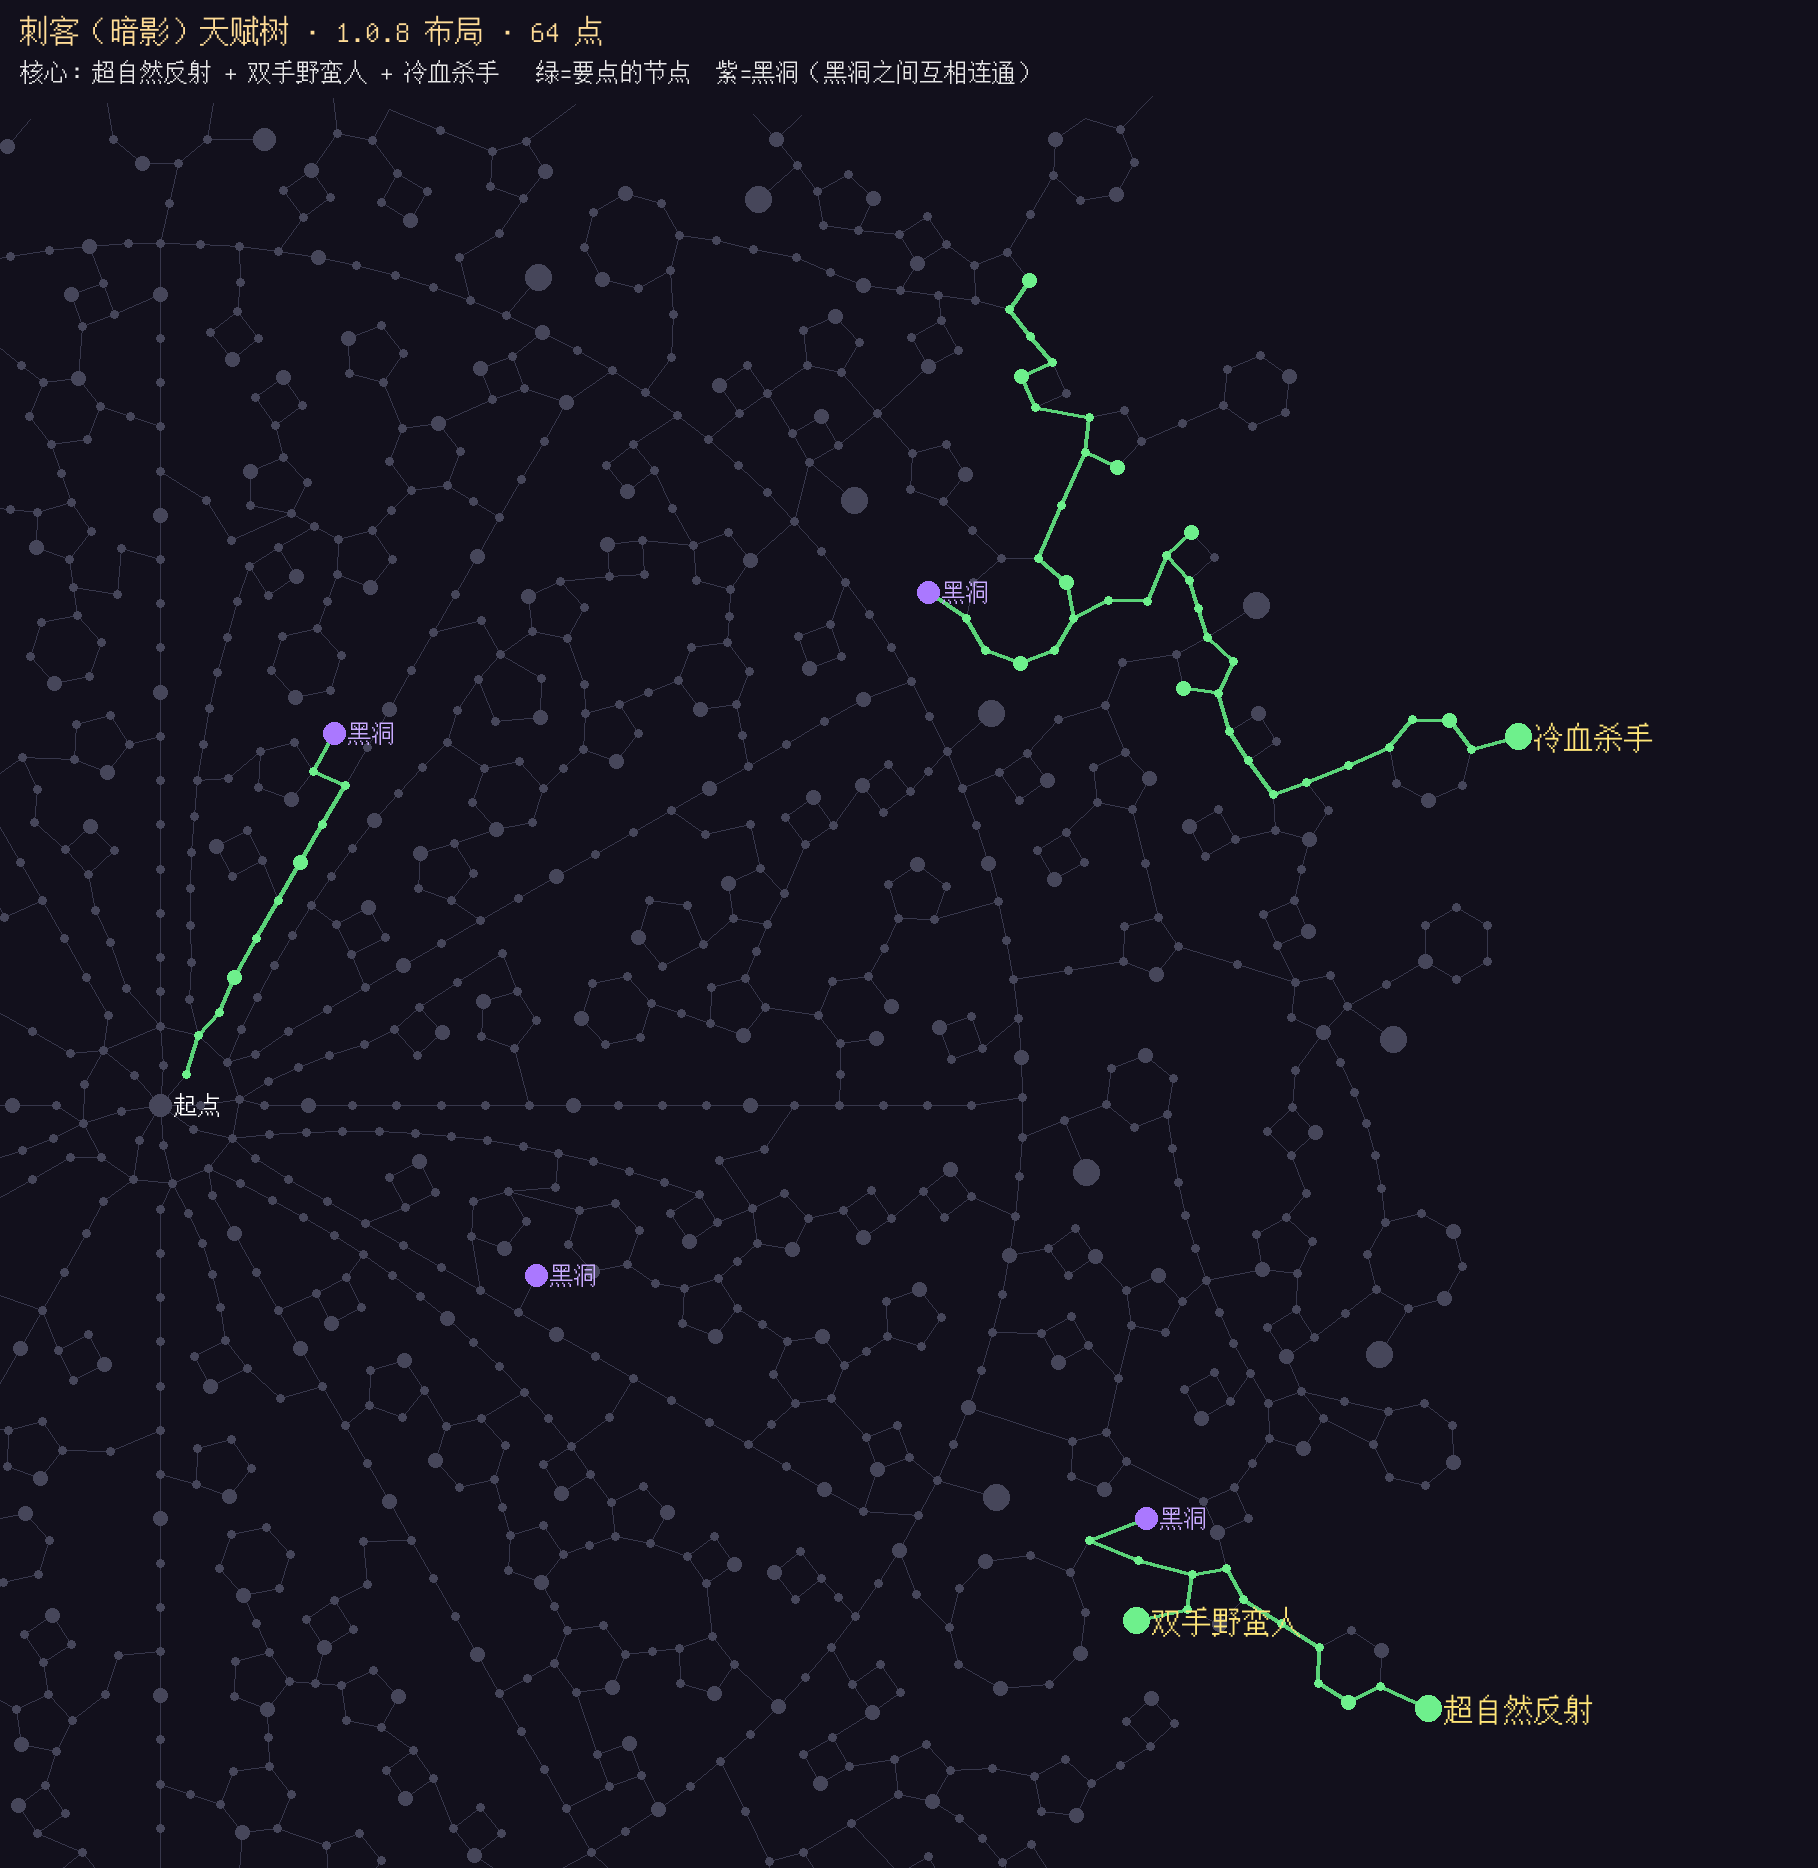
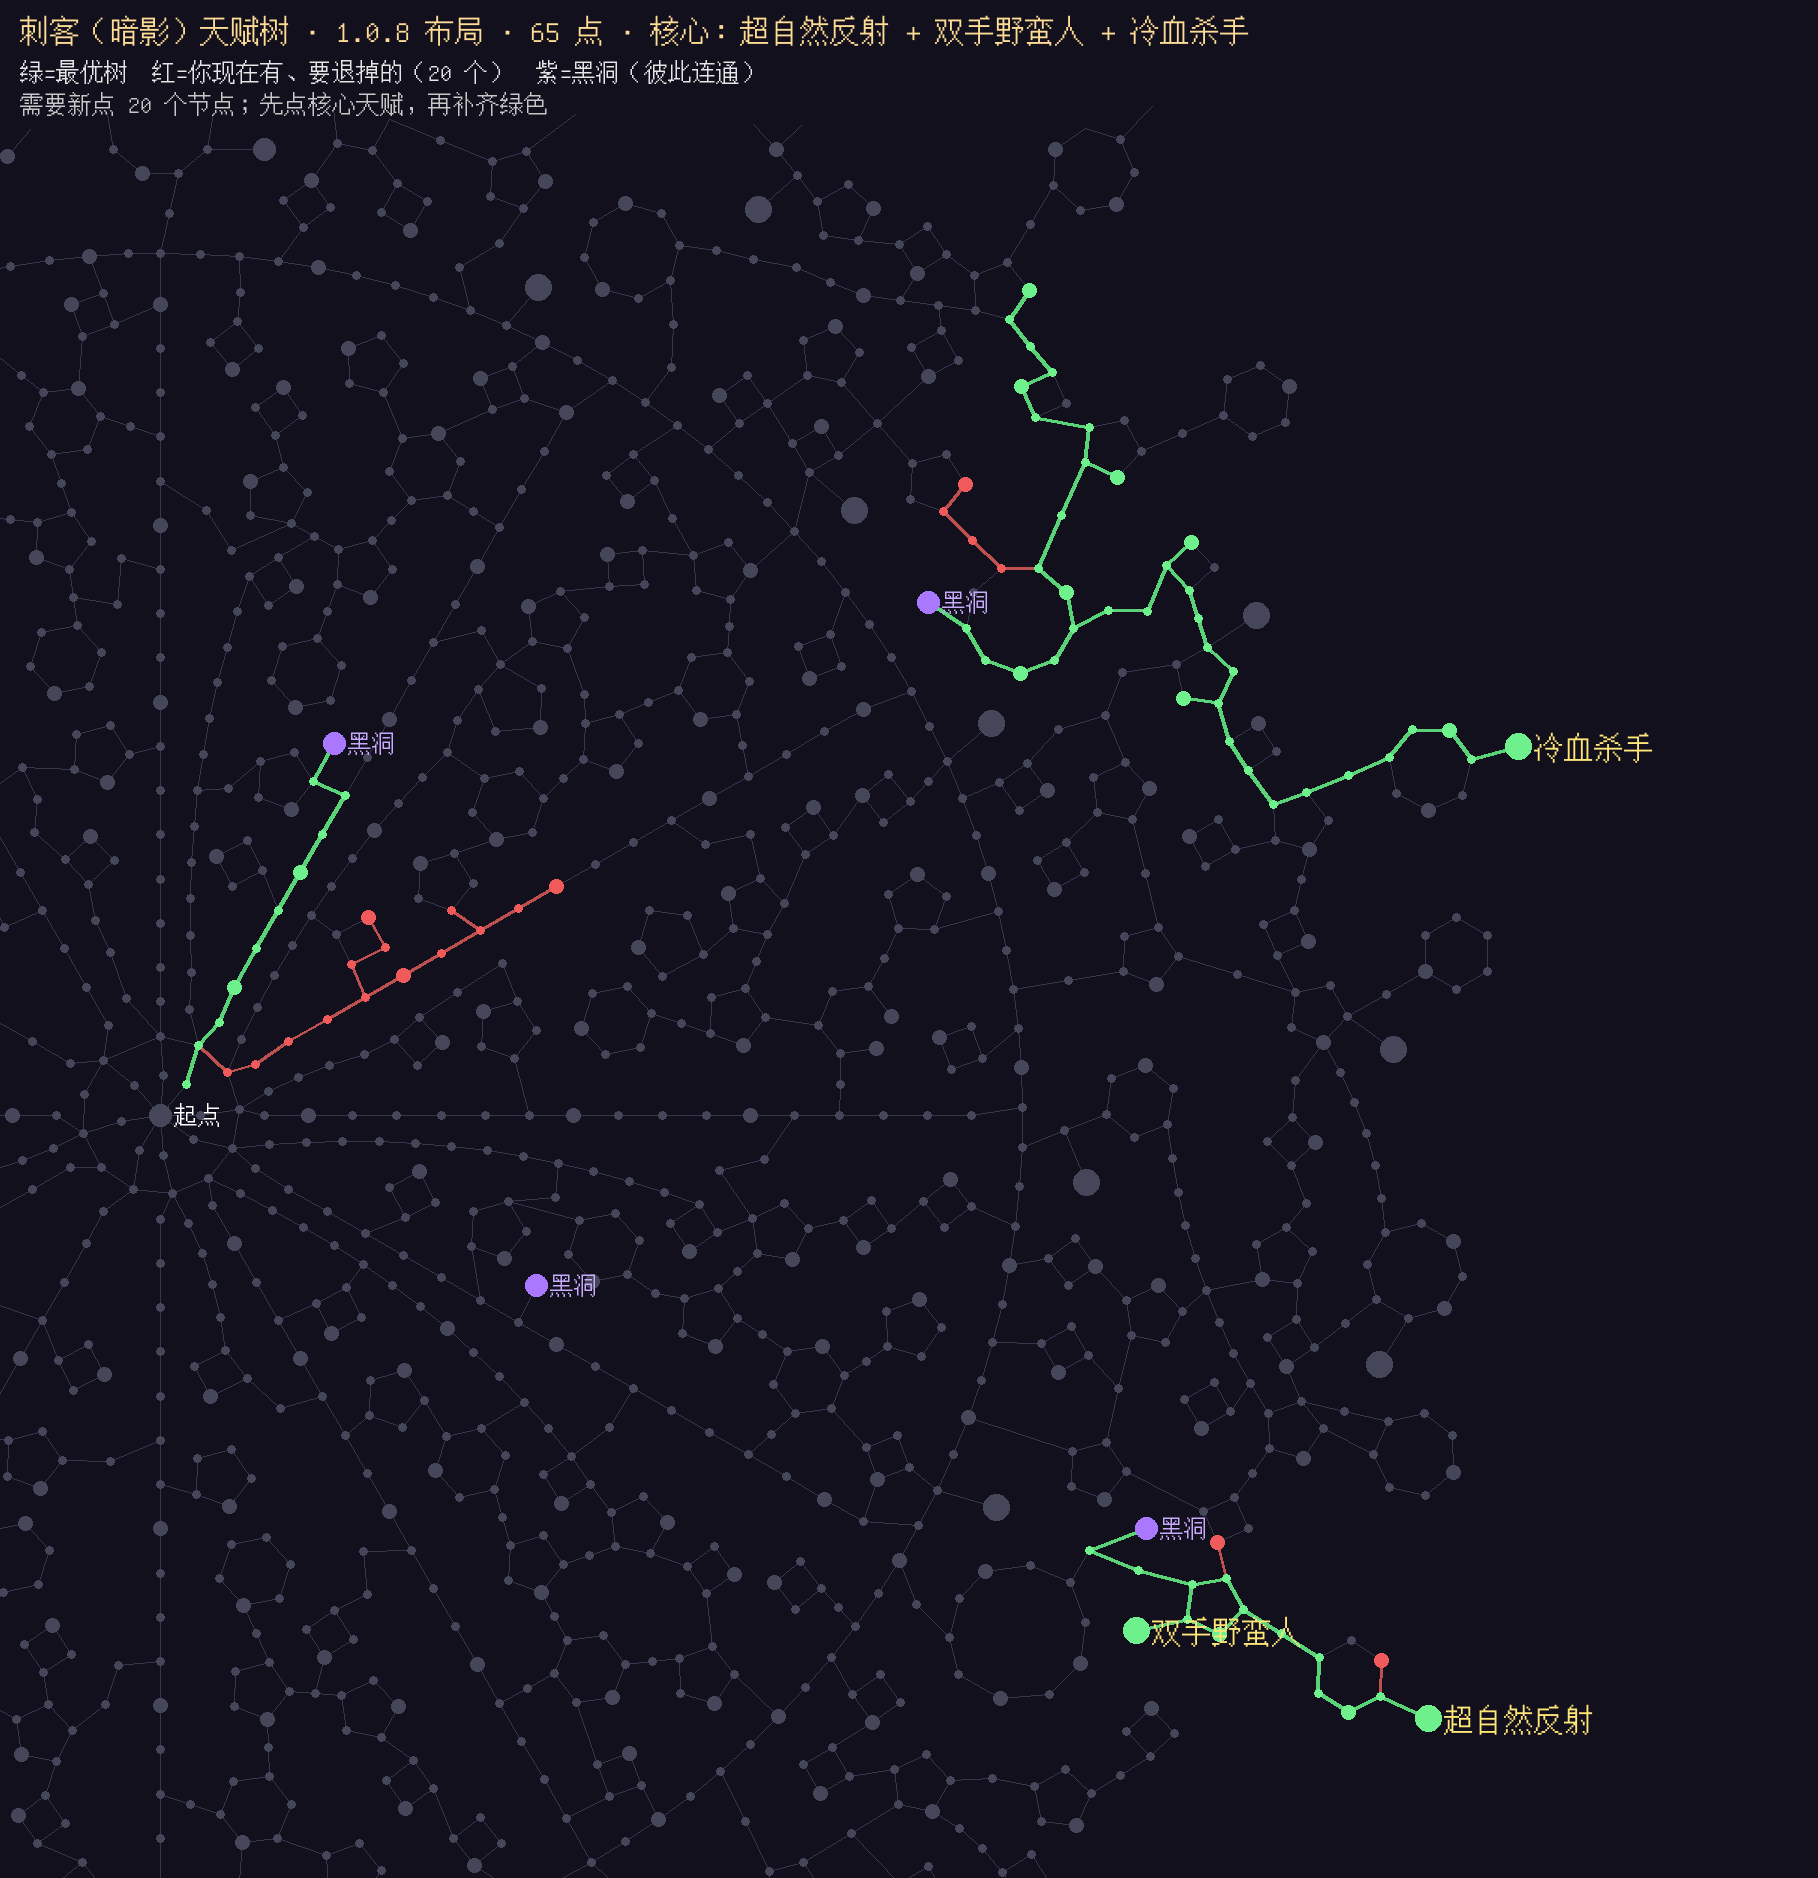
Final verified party A plan: fixed tree generation, 12-seed gem/enchant checks, trees at actual levels
Claude-Session: https://claude.ai/code/session_0186p34uYhN4xjjv6MQP1pvW

diff --git a/questaway/最优刷图队伍_1.0.8/A队配装清单.md b/questaway/最优刷图队伍_1.0.8/A队配装清单.md
@@ -1,11 +1,16 @@
-# A 队配装清单（1.0.8 · 深渊 1-1 刷图最快）
+# A 队配装清单（1.0.8 · 深渊 1-1 刷图最快 · 已复核）
 
-**通用规则：** 全部按 60 级神话装备计算（神话有 5 条词条，就是表里列的这 5 条）。品质更高（传说、永恒）或等级更高的同名底子只会更好，词条顺序不变。
+用游戏 1.0.8 客户端自带引擎计算，宝石和附魔每项都用 12 个随机种子复核过。
 
-## 弓箭手（机动）
+**通用规则：** 按 60 级神话装备（5 条词条）计算。更高品质或等级的同名底子只会更好，词条顺序不变。
 
-- **附魔：** 14 件全部附 **攻击**（用 攻击卷轴指定）
-- **宝石：** 所有孔都镶 **穿透**（满孔共 34 颗，T3 起）
+## 弓箭手（机动） · 65 级
+
+- **技能加点：** 轻盈步(1阶) 5，翻滚(2阶) 5，野猪冲锋(3阶) 5，守护空翻(4阶) 7，箭舞(5阶) 10
+- **技能栏：** 箭舞(5阶) / 守护空翻(4阶) / 野猪冲锋(3阶)
+- **天赋核心：** 超自然反射 + 鹰眼 + 玻璃大炮（见 弓箭手_天赋树.png）
+- **附魔：** 14 件全部 **攻击**
+- **宝石：** 全部 **穿透**
 
 | 部位 | 装备底子 | 词条（神话 5 条） | 孔 |
 |---|---|---|---|
@@ -24,10 +29,13 @@
 | 戒指 1 | 轻羽指环 | 攻速、暴击率、暴击伤害、移速、攻击 | 1 |
 | 戒指 2 | 轻羽指环 | 攻速、暴击率、暴击伤害、移速、攻击 | 1 |
 
-## 武僧（风）
+## 武僧（风） · 65 级
 
-- **附魔：** 14 件全部附 **攻击**（用 攻击卷轴指定）
-- **宝石：** 所有孔都镶 **穿透**（满孔共 34 颗，T3 起）
+- **技能加点：** 风之步(1阶) 5，疾风连击(2阶) 5，流畅闪避(3阶) 5，旋风(4阶) 7，飓风(5阶) 10
+- **技能栏：** 飓风(5阶) / 旋风(4阶) / 疾风连击(2阶)
+- **天赋核心：** 超自然反射 + 双手野蛮人（见 武僧_天赋树.png）
+- **附魔：** 14 件全部 **攻击**
+- **宝石：** 全部 **穿透**
 
 | 部位 | 装备底子 | 词条（神话 5 条） | 孔 |
 |---|---|---|---|
@@ -46,10 +54,13 @@
 | 戒指 1 | 轻羽指环 | 攻速、暴击率、暴击伤害、移速、攻击 | 1 |
 | 戒指 2 | 轻羽指环 | 攻速、暴击率、暴击伤害、移速、攻击 | 1 |
 
-## 治疗师（光环）
+## 治疗师（光环） · 64 级
 
-- **附魔：** 14 件全部附 **移速**（用 移速卷轴指定）
-- **宝石：** 所有孔都镶 **黄玉（金币获取）**（满孔共 34 颗）。治疗师不打怪，引擎实测各种宝石对刷图经验的影响都在 0.3% 以内，所以用黄玉换金币；优先镶饰品（每颗 +2%）
+- **技能加点：** 信仰光环(1阶) 5，复原光环(2阶) 5，迅捷光环(3阶) 5，群体祝福(4阶) 7，神圣降临(5阶) 10
+- **技能栏：** 神圣降临(5阶) / 群体祝福(4阶) / 迅捷光环(3阶)
+- **天赋核心：** 超自然反射 + 虚灵步（见 治疗师_天赋树.png）
+- **附魔：** 14 件全部 **移速**
+- **宝石：** 全部 **黄玉（金币）**（她不打怪，宝石不影响经验，用黄玉换金币）
 
 | 部位 | 装备底子 | 词条（神话 5 条） | 孔 |
 |---|---|---|---|
@@ -64,14 +75,17 @@
 | 项链 | 镀金币吊坠 | 金币获取、移速、回复、生命、暴击率 | 2 |
 | 耳环 | 獠牙耳环 | 暴击率、暴击伤害、易伤、移速、金币获取 | 1 |
 | 耳环 2 | 獠牙耳环 | 暴击率、暴击伤害、易伤、移速、金币获取 | 1 |
-| 手镯 | 奥术手镯 | 元素伤害、元素穿透、施法速度、暴击率、生命 | 1 |
+| 手镯 | 编织手绳 | 攻速、暴击伤害、暴击率、移速、穿透 | 1 |
 | 戒指 1 | 轻羽指环 | 攻速、暴击率、暴击伤害、移速、攻击 | 1 |
 | 戒指 2 | 轻羽指环 | 攻速、暴击率、暴击伤害、移速、攻击 | 1 |
 
-## 刺客（暗影）
+## 刺客（暗影） · 65 级
 
-- **附魔：** 14 件全部附 **攻击**（用 攻击卷轴指定）
-- **宝石：** 所有孔都镶 **穿透**（满孔共 34 颗，T3 起）
+- **技能加点：** 暗影(1阶) 5，暗影扫腿(2阶) 5，伏击(3阶) 5，烟幕(4阶) 7，幽灵突袭(5阶) 10
+- **技能栏：** 幽灵突袭(5阶) / 伏击(3阶) / 暗影扫腿(2阶)
+- **天赋核心：** 超自然反射 + 双手野蛮人 + 冷血杀手（见 刺客_天赋树.png）
+- **附魔：** 14 件全部 **攻击**
+- **宝石：** 全部 **穿透**
 
 | 部位 | 装备底子 | 词条（神话 5 条） | 孔 |
 |---|---|---|---|
@@ -84,21 +98,27 @@
 | 靴子 | 风行靴 | 移速、闪避、生命、防御、暴击伤害 | 3 |
 | 腰带 | 斥候腰带 | 生命、回复、闪避、防御、暴击伤害 | 2 |
 | 项链 | 静默项绳 | 攻速、暴击率、移速、闪避、攻击 | 2 |
-| 耳环 | 细丝耳坠 | 攻速、移速、穿透、暴击率、金币获取 | 1 |
+| 耳环 | 獠牙耳环 | 暴击率、暴击伤害、易伤、移速、金币获取 | 1 |
 | 耳环 2 | 细丝耳坠 | 攻速、移速、穿透、暴击率、金币获取 | 1 |
 | 手镯 | 编织手绳 | 攻速、暴击伤害、暴击率、移速、穿透 | 1 |
 | 戒指 1 | 轻羽指环 | 攻速、暴击率、暴击伤害、移速、攻击 | 1 |
 | 戒指 2 | 轻羽指环 | 攻速、暴击率、暴击伤害、移速、攻击 | 1 |
 
-## 汇总
+## 复核数据（深渊 1-1，每人每小时经验，12 个种子）
 
-| 英雄 | 附魔（×14） | 宝石 | 饰品要点 |
+| 改动 | 弓箭手 | 武僧 | 刺客 |
 |---|---|---|---|
-| 弓箭手 | 攻击 | 穿透 ×34 | 6 件全是「攻速/暴击/移速」系：静默项绳、细丝耳坠 ×2、编织手绳、轻羽指环 ×2 |
-| 武僧 | 攻击 | 穿透 ×34 | 项链、两只耳环用元素系（水晶聚焦、嗡鸣水滴 ×2），手镯和戒指用攻速系（编织手绳、轻羽指环 ×2）——引擎实测比全攻速系高约 4% |
-| 治疗师 | **移速** | 黄玉 ×34（不影响经验，多拿金币） | 镀金币吊坠、獠牙耳环 ×2、奥术手镯、轻羽指环 ×2 |
-| 刺客 | 攻击 | 穿透 ×34 | 同弓箭手：静默项绳、细丝耳坠 ×2、编织手绳、轻羽指环 ×2 |
+| 附魔：攻击（推荐） | **781.6 万** | **781.6 万** | **781.6 万** |
+| 附魔：暴击伤害 | 775.0 万 | 743.6 万 | 755.7 万 |
+| 附魔：暴击率 | 770.9 万 | 740.8 万 | 755.6 万 |
+| 附魔：移速 | 754.6 万 | 724.6 万 | 734.0 万 |
+| 附魔：攻速 | 759.1 万 | 709.5 万 | 723.5 万 |
+| 不附魔 | 750.1 万 | 704.7 万 | 729.8 万 |
+| 宝石：穿透（推荐） | **781.6 万** | **781.6 万** | **781.6 万** |
+| 宝石：易伤 | 779.4 万 | 771.6 万 | 772.5 万 |
+| 宝石：红宝石 | 778.9 万 | 771.3 万 | 772.1 万 |
+| 宝石：绿宝石 | 778.5 万 | 761.3 万 | 770.2 万 |
+| 宝石：紫水晶 | 772.2 万 | 732.4 万 | 740.6 万 |
+| 不镶 | 772.4 万 | 735.6 万 | 757.5 万 |
 
-**合计：** 攻击附魔 42 次、移速附魔 14 次；穿透宝石 102 颗、黄玉 34 颗（按满孔）。
-
-孔数按模拟用的满孔数写，实际装备孔数不同就有几个镶几个。
+表里是「只改这一个人的这一项，其他人保持推荐配置」时的全队数据。
